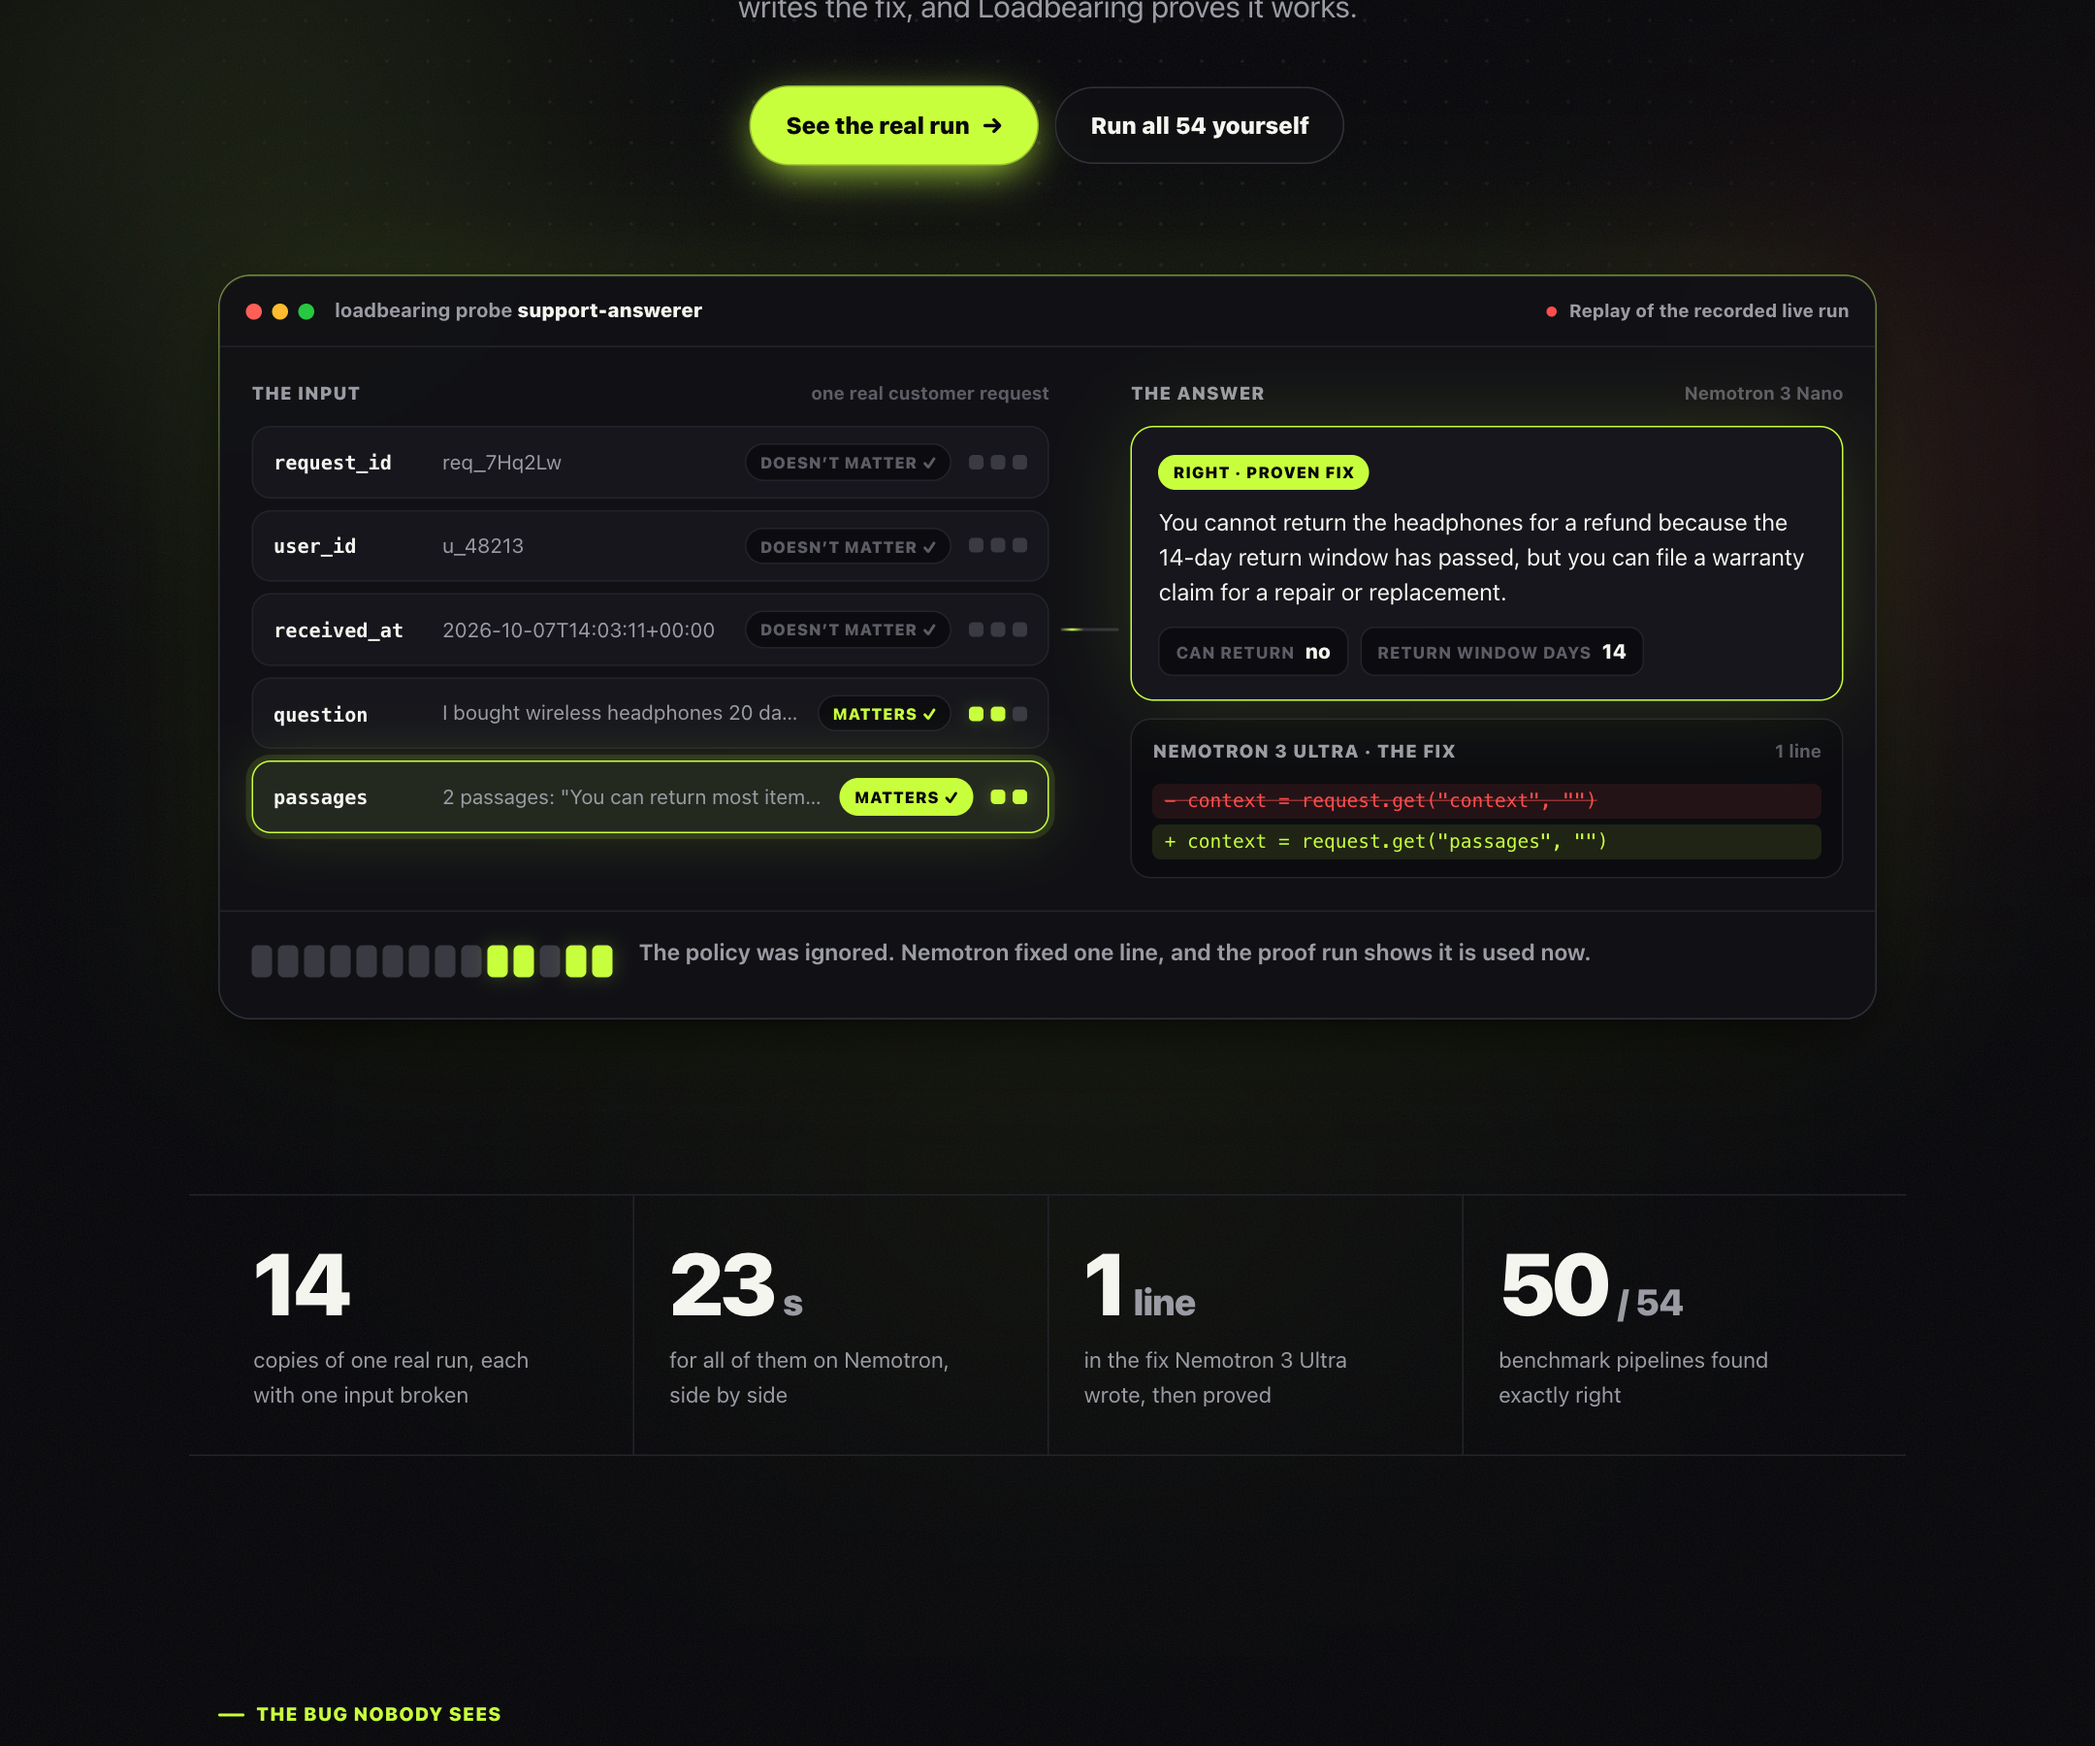
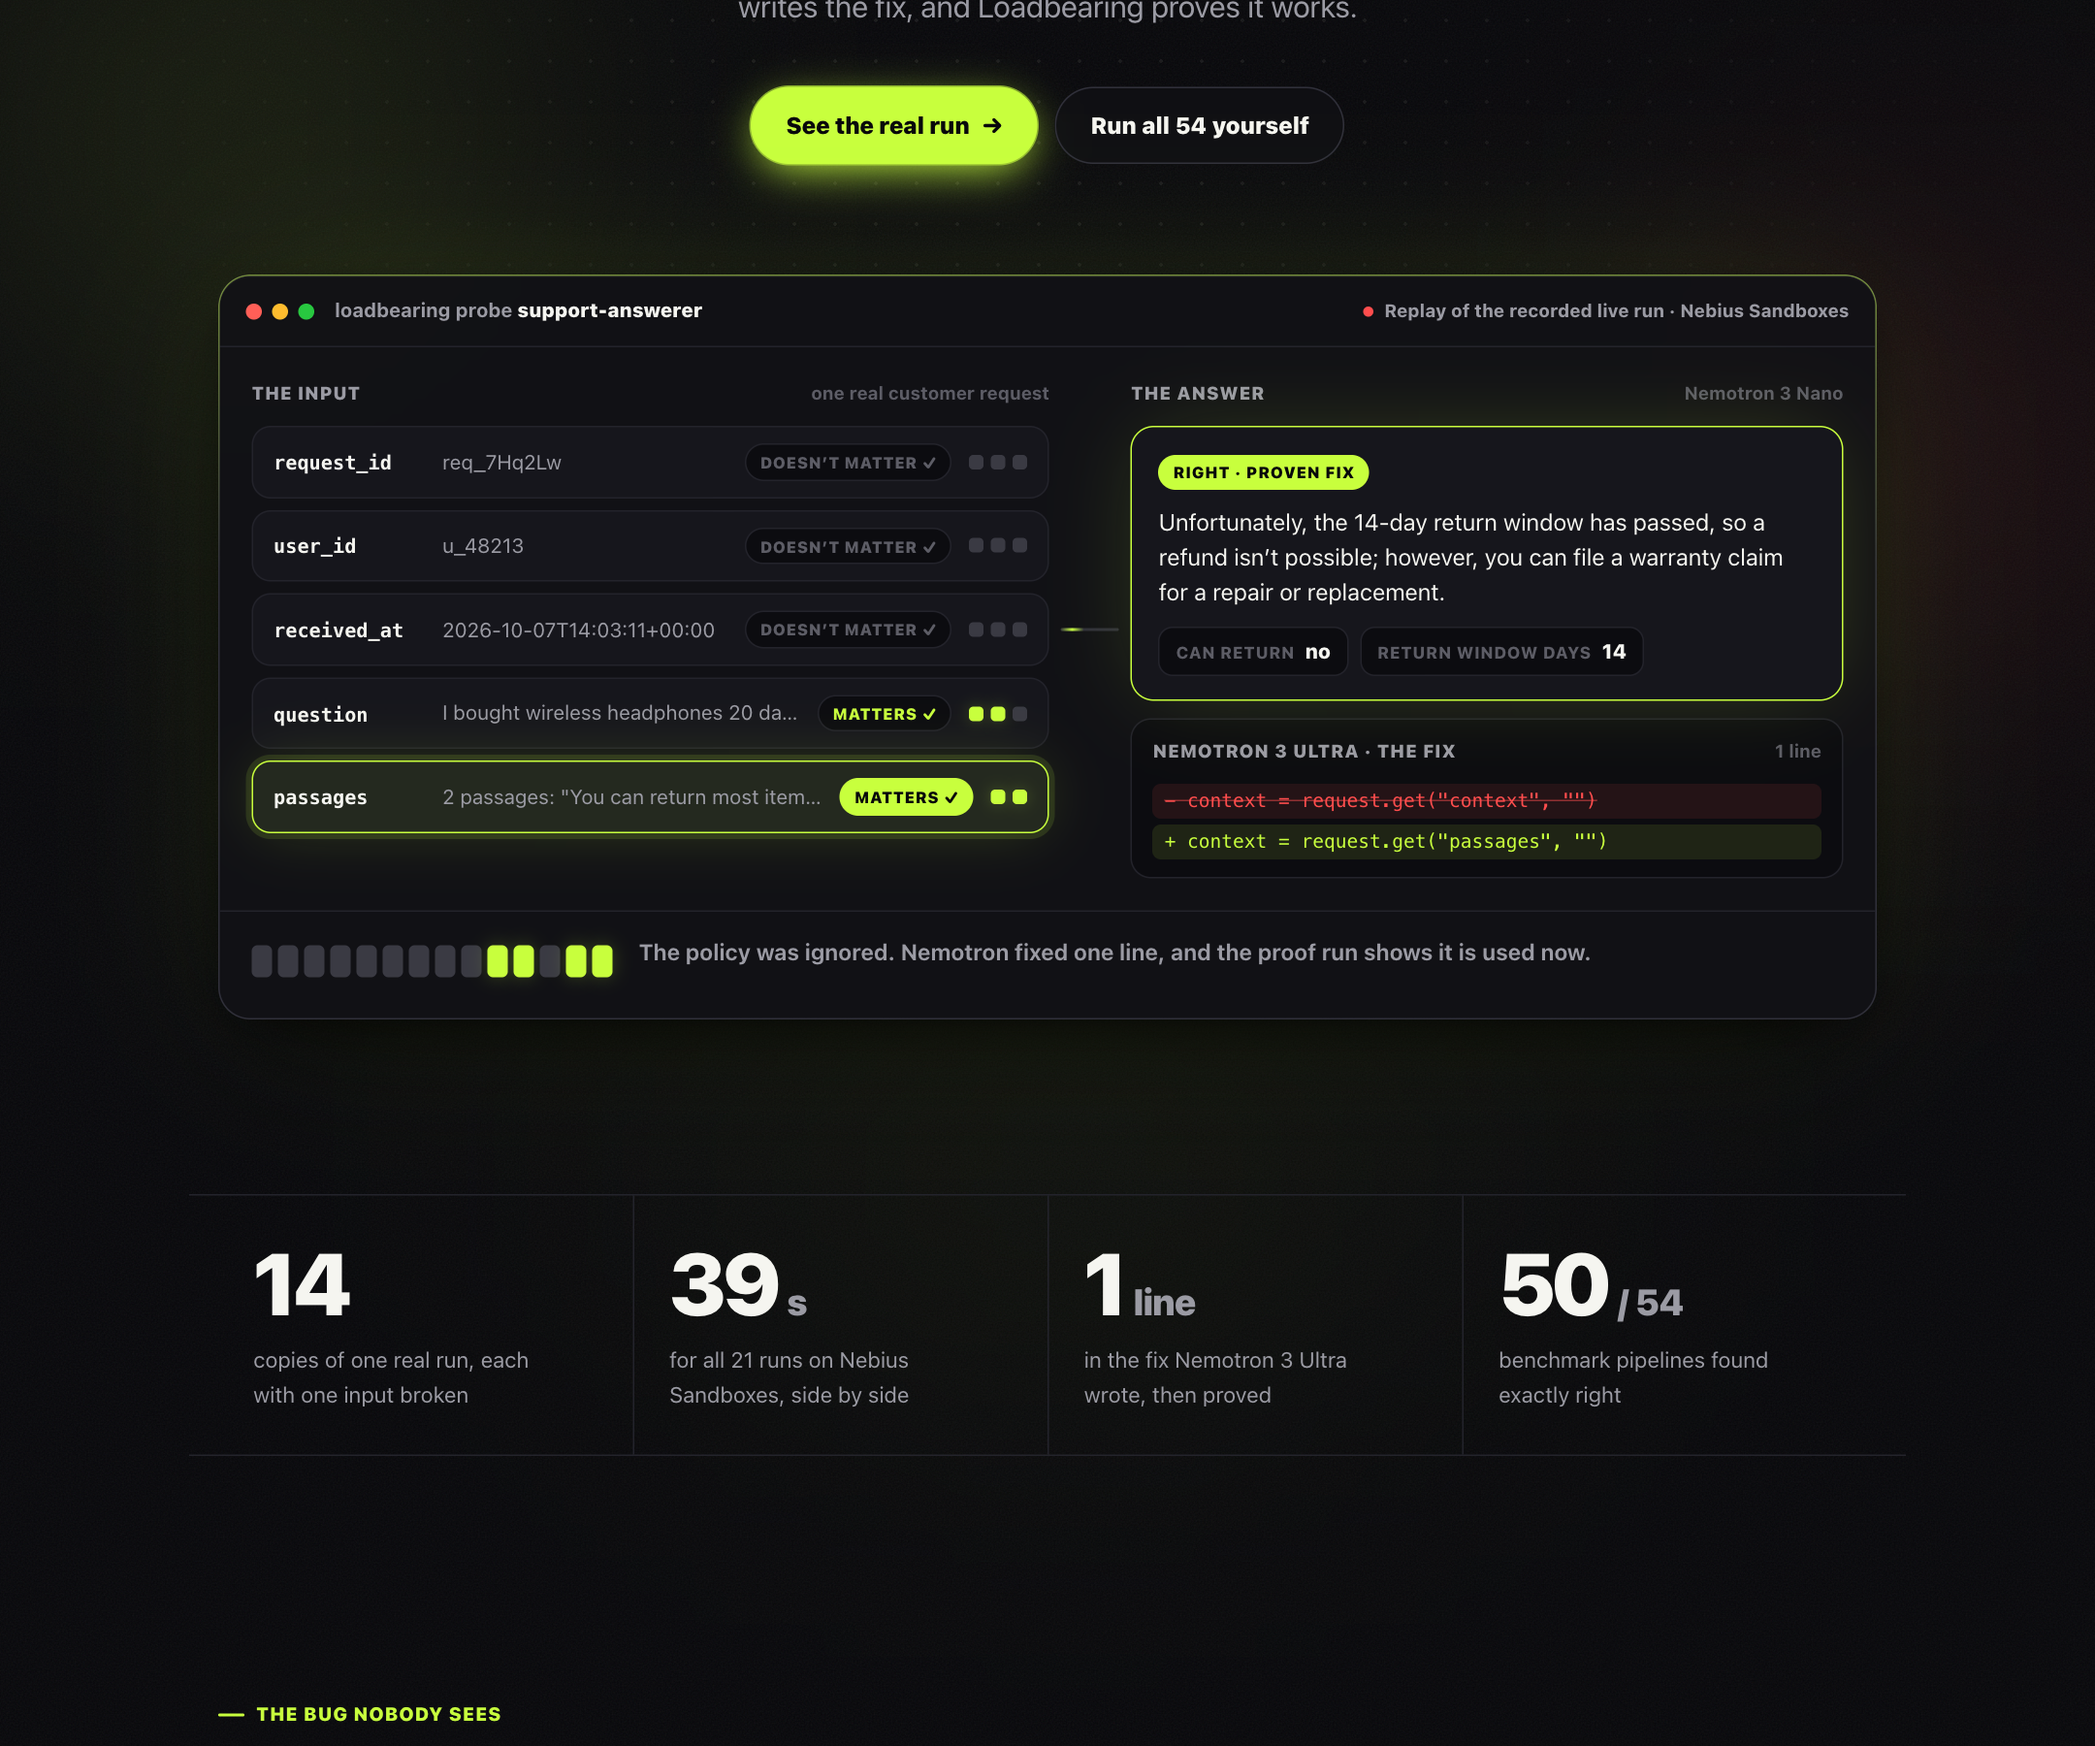
Log 10-22: Sandboxes live, V1 passed, the support answerer recorded there

diff --git a/PROGRESS.md b/PROGRESS.md
@@ -13,11 +13,11 @@ Where Loadbearing is, what happens next, and what has already happened. **Now**,
 
 ## Now
 
-_Updated 2026-10-20_
+_Updated 2026-10-22_
 
-- **State:** the whole loop has run live on Token Factory and Tavily, on the local backend: Nano scores 18, 19 and 19 of 20; on the support answerer Tavily and Super infer `passages` is relevant from a quoted source, Ultra's one-line fix is proven, and the run is recorded in `demo/runs/` for the hosted demo. Ultra fixes by exact-quote edits. Intent comes from the target's own docs first, search only for the gaps. The README leads with the product working, and an inferred field's card says its intent came from docs. 211 tests pass on `main`; the audit says go on all history. **Live:** the hosted demo, https://loadbearing-demo.vercel.app (A6), with a front page built on the recorded run and a run-all over the 54 benchmark cases. **Not yet live:** the Sandboxes backend (V1, beta not enabled: 403), any recording made on Sandboxes.
-- **Next action:** Aeshvarya, who holds the keys from 10-11: Sandboxes beta access (still 403 on 10-20), then V1's run (hand-off 20 is in, so the image step is covered), `loadbearing probe examples/ticket_triage/target.json --backend sandbox --nano` (pass = the same two defects, found on Nebius), then the support answerer on Sandboxes. Varunika, in this order: **V6, late since 10-18**: the dry run says go, so the flip is one command after the final audit; V8 README narrative, late since 10-18; **V10 narration, which the video (A9, due Wed 10-21) cannot be made without**; V7, open the two sources that refuse scripts, due 10-20; V12 scored review, due 10-20. V9 palette still open: the front page's lime `#c8ff3d`, red `#ff4d4d` and amber `#ffb020` can be adopted as is.
-- **Waiting on:** Aeshvarya confirming or countering the split in WORKPLAN.md (due 2026-10-09; both are working inside it); Sandboxes beta access.
+- **State:** the whole loop has run live on Token Factory, Tavily and **Nebius Sandboxes**: Nano scores 18, 19 and 19 of 20; on the support answerer Tavily and Super infer `passages` is relevant from a quoted source, Ultra's one-line fix is proven, and the run is recorded on Sandboxes in `demo/runs/` for the hosted demo. Ultra fixes by exact-quote edits. Intent comes from the target's own docs first, search only for the gaps. The README leads with the product working, and an inferred field's card says its intent came from docs. 212 tests pass on `main`; the audit says go on all history. **Live:** the hosted demo, https://loadbearing-demo.vercel.app (A6), with a front page built on the recorded run and a run-all over the 54 benchmark cases. **Live since 10-22:** the Sandboxes backend (V1 passed; the support answerer's recording, the README's images and its terminal output all come from a Sandboxes run).
+- **Next action:** Aeshvarya, who holds the keys from 10-11: the video (A9), filmed against the hosted demo, once V10's narration is in. Varunika, in this order: **V6, late since 10-18**: the dry run says go, so the flip is one command after the final audit; V8 README narrative, late since 10-18; **V10 narration, which the video (A9, due Wed 10-21) cannot be made without**; V7, open the two sources that refuse scripts, due 10-20; V12 scored review, due 10-20. V9 palette still open: the front page's lime `#c8ff3d`, red `#ff4d4d` and amber `#ffb020` can be adopted as is.
+- **Waiting on:** Aeshvarya confirming or countering the split in WORKPLAN.md (due 2026-10-09; both are working inside it).
 - **Deadline:** 2026-10-30 10:00 PT (22:30 IST). **Target submission: 2026-10-25.**
 
 ## Plan
@@ -95,6 +95,12 @@ Problem statement: [SPEC.md](SPEC.md). Setup, target format, layout: [README.md]
 ## Log
 
 Newest first.
+
+### 2026-10-22
+- **Sandboxes is live** (Aeshvarya): beta access came through. **V1 passes:** `loadbearing probe examples/ticket_triage/target.json --backend sandbox --nano` finds the same two defects on Nebius, `submitted_at` (phantom sensitivity) and `body` (silent passthrough); checkpoint 4.38 s, then 17 runs in 5.33 s wall (40.55 s one after another, 7.6x parallel).
+- **The support answerer re-recorded on Sandboxes** (`--backend sandbox --intent --prove`, 1 min 17 s): Tavily cites NVIDIA's RAG page again, `passages` is the one defect, Ultra's fix is the same one line, and the proof is clean (`passages` load-bearing, no new defect); the answer goes from "30 days, full refund" to "14 days, warranty". One chance move (`drop:user_id`, 1 of 3) was not counted. Checked the record for key values before committing: none, only the pipeline's own `os.environ[...]` lines, as before. `demo/runs/support_answerer.sandbox.json` replaces the local recording, so the hosted demo replays the Sandboxes run.
+- **README:** every report image, the terminal image and the full terminal output now come from the Sandboxes run; the status says Sandboxes has run live. The front page says the replayed run was recorded there, and its run time reads "for all 21 runs on Nebius Sandboxes".
+- **Fix found while re-rendering:** Ultra's explanation ended inside a code block at its length limit, and the report showed the bare fence. `_prose` now closes a fence left open, with a test. 212 tests, CI green; checked on the hosted demo after the deploy.
 
 ### 2026-10-20
 - **Hand-off 25 reviewed and merged** (Aeshvarya, `8e767c7`): the model's bar spans its three runs, 49 to 51, and the chat shows the whole policy. Read the diff; 210 tests on the merge.
